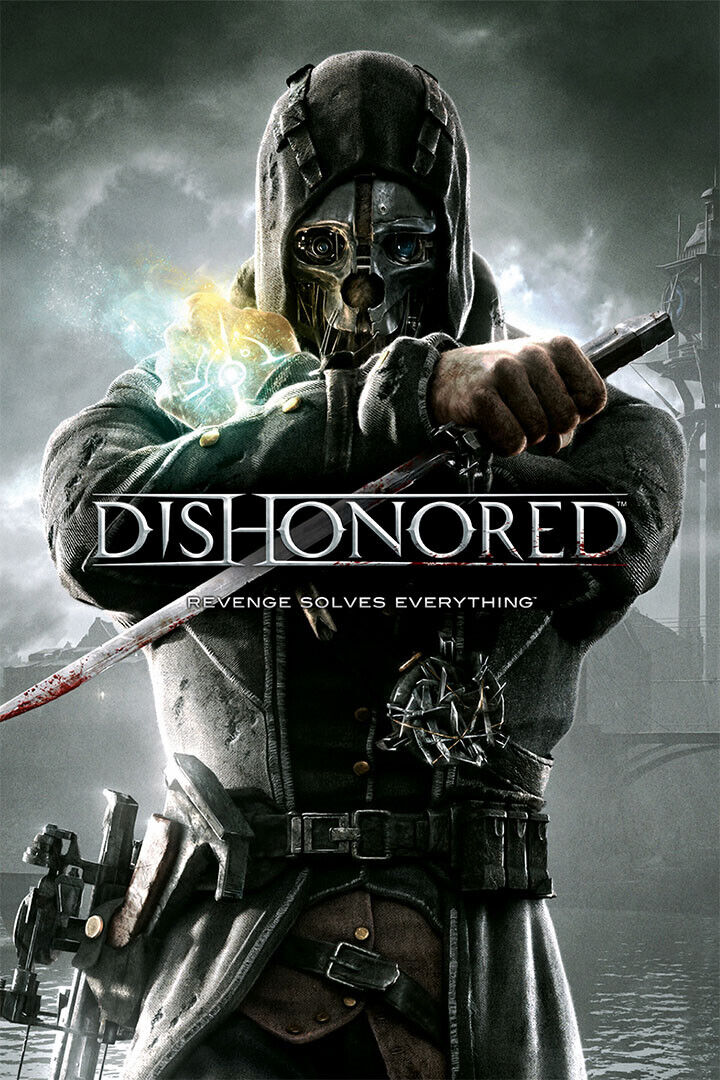
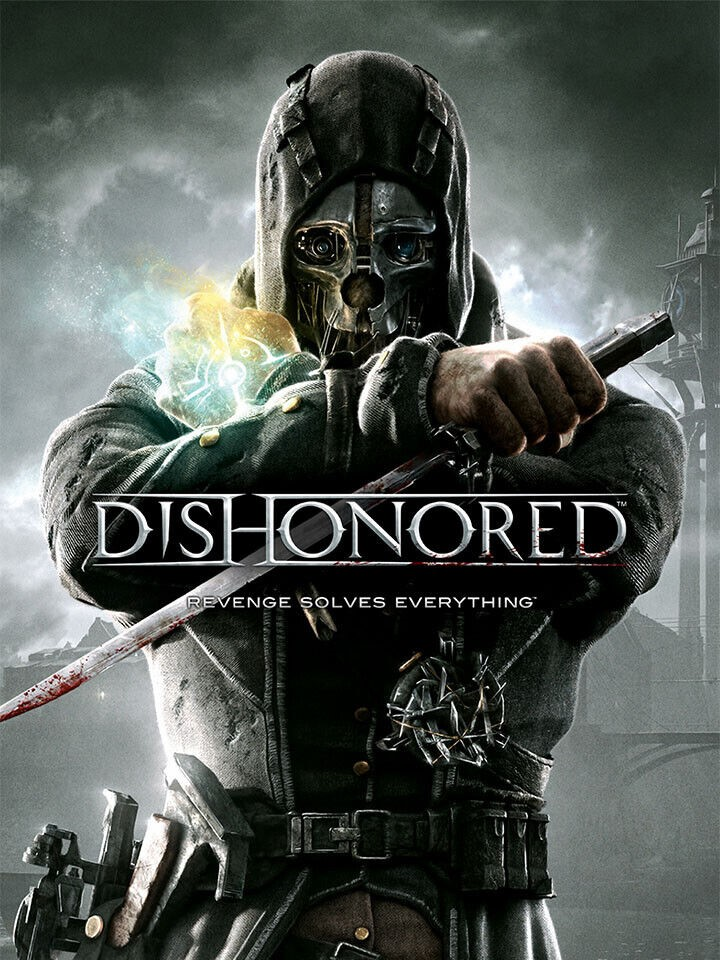
Cover updates

diff --git a/src/app/(public)/game/[id]/page.tsx b/src/app/(public)/game/[id]/page.tsx
@@ -21,7 +21,7 @@ export default async function GamePage({params}: { params: { id: string } }) {
             <Row className={'game-card-content'}>
                 <Col xxl={'auto'}>
                     <div className={'game-page-cover d-flex align-items-center'}>
-                        <Image src={`/games/covers/vertical/${id}.jpg`} className={'mh-100 mw-100 img-thumbnail'}></Image>
+                        <Image src={`/games/covers/vertical/${id}.jpg`} className={'mh-100 mw-100 img-thumbnail mx-auto'}></Image>
                     </div>
                 </Col>
                 <Col>

diff --git a/src/css/public.css b/src/css/public.css
@@ -16,6 +16,6 @@
 /* 135x200 */
 /* 108x160 */
 .game-page-cover {
-    width: 270px;
+    width: 300px;
     height: 400px;
 }
